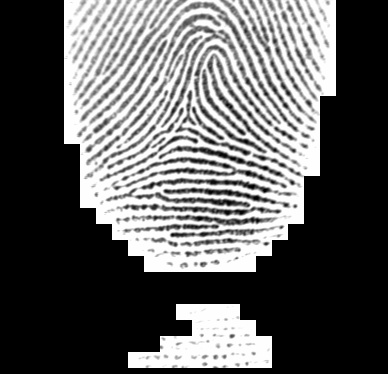
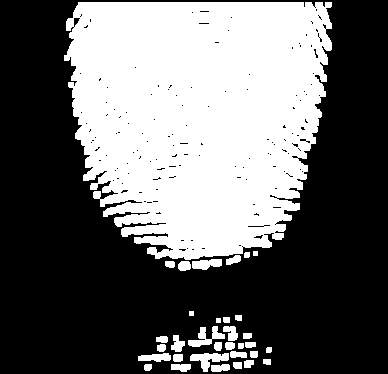
fixing proj12 filter

diff --git a/proj12/main.py b/proj12/main.py
@@ -3,18 +3,14 @@ import cv2
 import numpy as np
 import glob
 
-if __name__ == '__main__':
-    for fingerprint in glob.glob("Fingerprints/*.tif"):
-        w = 16
-        src = cv2.imread(fingerprint)
-        src = cv2.cvtColor(src, cv2.cv.CV_BGR2GRAY)
-        filtered = np.zeros(src.shape)
-        for i in range(0, src.shape[0] / w):
-            for j in range(0, src.shape[1] / w):
-                slice = np.array(src)[i*w : (i+1)*w, j*w:(j+1) * w]
-                if classifier.is_foreground(slice):
-                    for ki in range(0, w):
-                        for kj in range(0, w):
-                            filtered[i*w + ki][j*w + kj] = slice[ki][kj]
-        cv2.imwrite(fingerprint.split('.')[0] + '_filtered.jpg', filtered)
-        print fingerprint
+for fingerprint in glob.glob("Fingerprints/*.tif"):
+    src = cv2.imread(fingerprint)
+    src = cv2.cvtColor(src, cv2.cv.CV_BGR2GRAY)
+    filtered = np.zeros(src.shape)
+    for i in range(2, src.shape[0]-2):
+        for j in range(2, src.shape[1]-2):
+            slice = np.array(src)[i-2 : i+2, j-2:j+2]
+            if classifier.is_foreground(slice, w=4): filtered[i][j] = 255
+    filtered_opening = cv2.morphologyEx(cv2.convertScaleAbs(filtered), cv2.MORPH_OPEN, np.ones((5,5),np.uint8))
+    cv2.imwrite(fingerprint.split('.')[0] + '_filtered.jpg', filtered_opening)
+    print fingerprint

diff --git a/proj12/descriptor.py b/proj12/descriptor.py
@@ -19,22 +19,3 @@ def coh(window, w=8):
 
 def descriptor(window, w=8):
     return np.mean(window), np.var(window), coh(window, w)
-
-if __name__ == '__main__':
-    for fingerprint in glob.glob("Fingerprints/*.tif"):
-        w = 16
-        src = cv2.imread(fingerprint)
-        src = cv2.cvtColor(src, cv2.cv.CV_BGR2GRAY)
-        mean, vari, cohe = np.zeros(src.shape), np.zeros(src.shape), np.zeros(src.shape)
-        for i in range(0, src.shape[0] / w):
-            for j in range(0, src.shape[1] / w):
-                slice = np.array(src)[i*w : (i+1)*w, j*w:(j+1) * w]
-                dscpt = descriptor(slice, w)
-                for ki in range(0, w):
-                    for kj in range(0, w):
-                        mean[i*w + ki][j*w + kj], vari[i*w + ki][j*w + kj], cohe[i*w + ki][j*w + kj] = dscpt
-        print fingerprint
-        cv2.imwrite(fingerprint.split('.')[0] + '_rgnl.jpg', src)
-        cv2.imwrite(fingerprint.split('.')[0] + '_mean.jpg', mean)
-        cv2.imwrite(fingerprint.split('.')[0] + '_vari.jpg', vari)
-        cv2.imwrite(fingerprint.split('.')[0] + '_cohe.jpg', cohe * 100)

diff --git a/proj12/classifier.py b/proj12/classifier.py
@@ -15,21 +15,6 @@ y = np.array(background_labels + foreground_labels)
 classifier = SVC(C = 1000)
 classifier.fit(X, y)
 
-def is_foreground(image):
-    dscptr = descriptor(image)
+def is_foreground(image, w=8):
+    dscptr = descriptor(image, w)
     return classifier.predict([dscptr[0], dscptr[1], dscptr[2]]) == 1.0
-
-if __name__ == '__main__':
-    rlt = []
-    skf = cross_validation.StratifiedKFold(y, k=10)
-    for train_index, test_index in skf:
-        classifier = SVC()
-        X_train, X_test = X[train_index], X[test_index]
-        y_train, y_test = y[train_index], y[test_index]
-        classifier.fit(X_train, y_train)
-        predictions = [classifier.predict(i) for i in X_test]
-        matches = 0
-        for i in range(len(predictions)):
-            if predictions[i][0] == y_test[i] : matches = matches + 1
-        rlt.append(float(matches) / len(predictions))
-    print np.mean(rlt), np.var(rlt)
